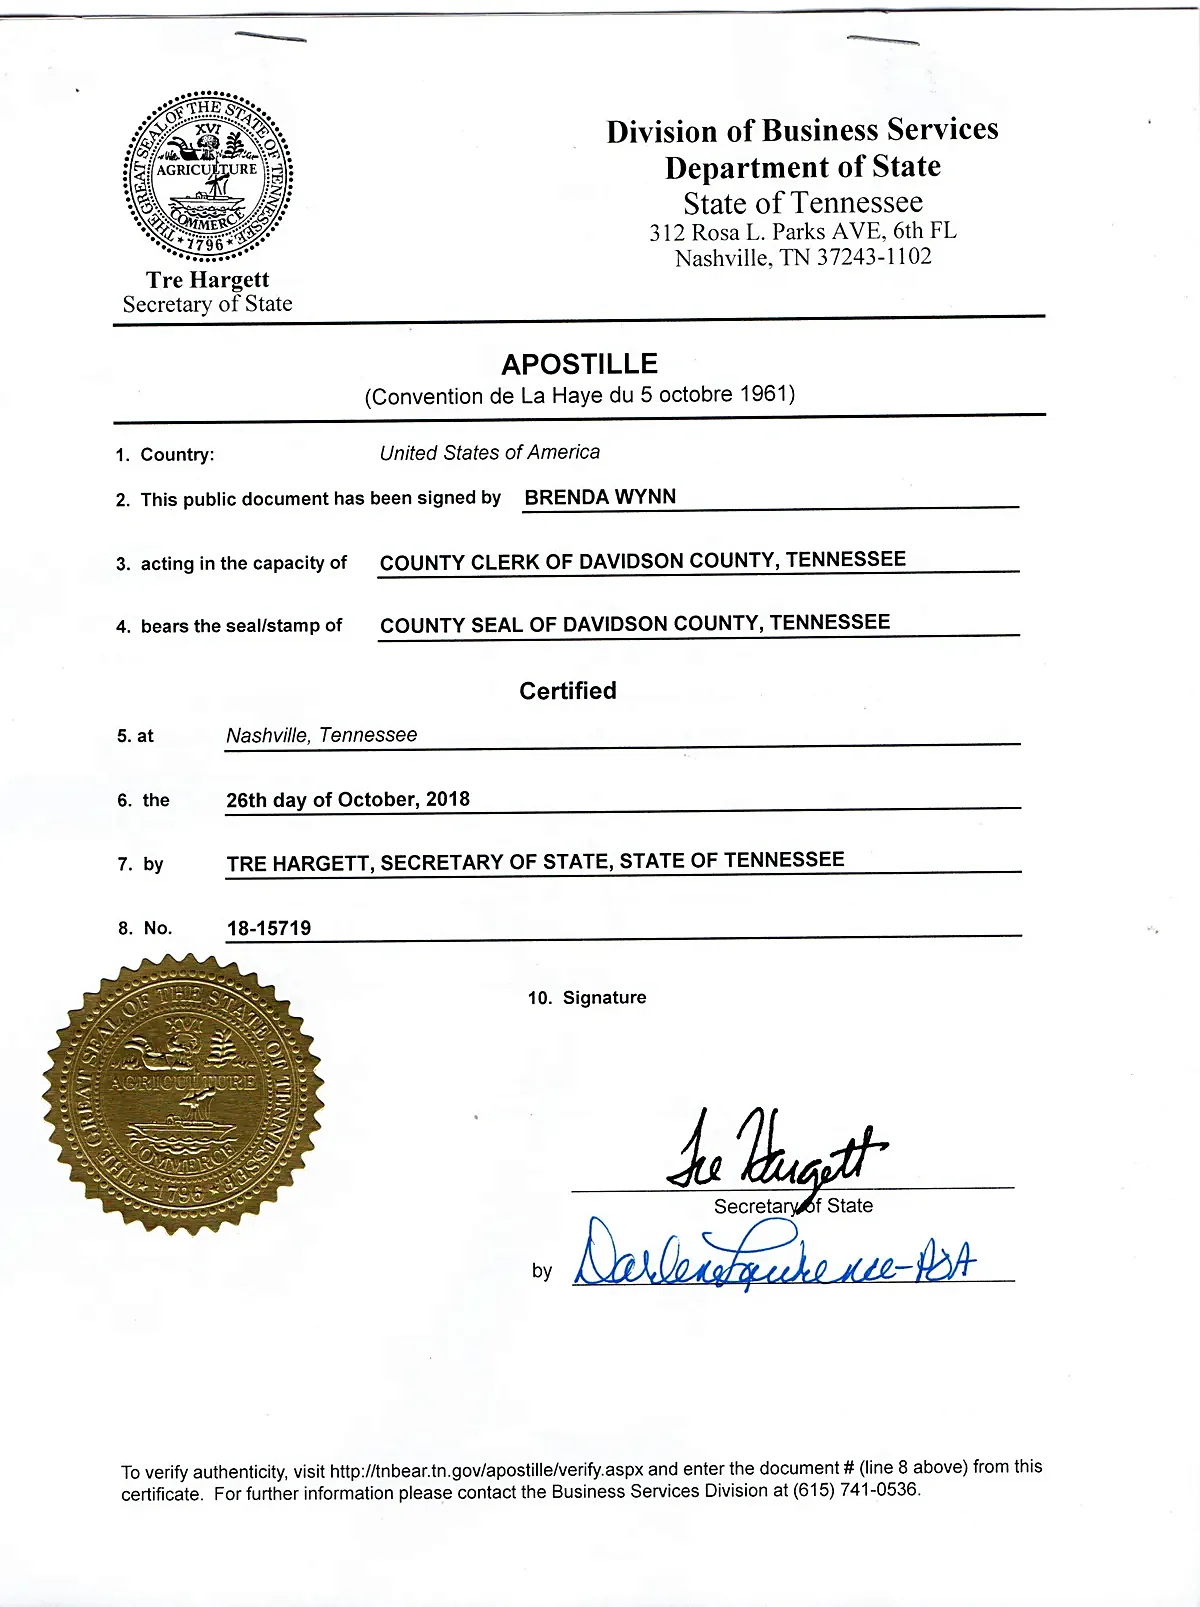
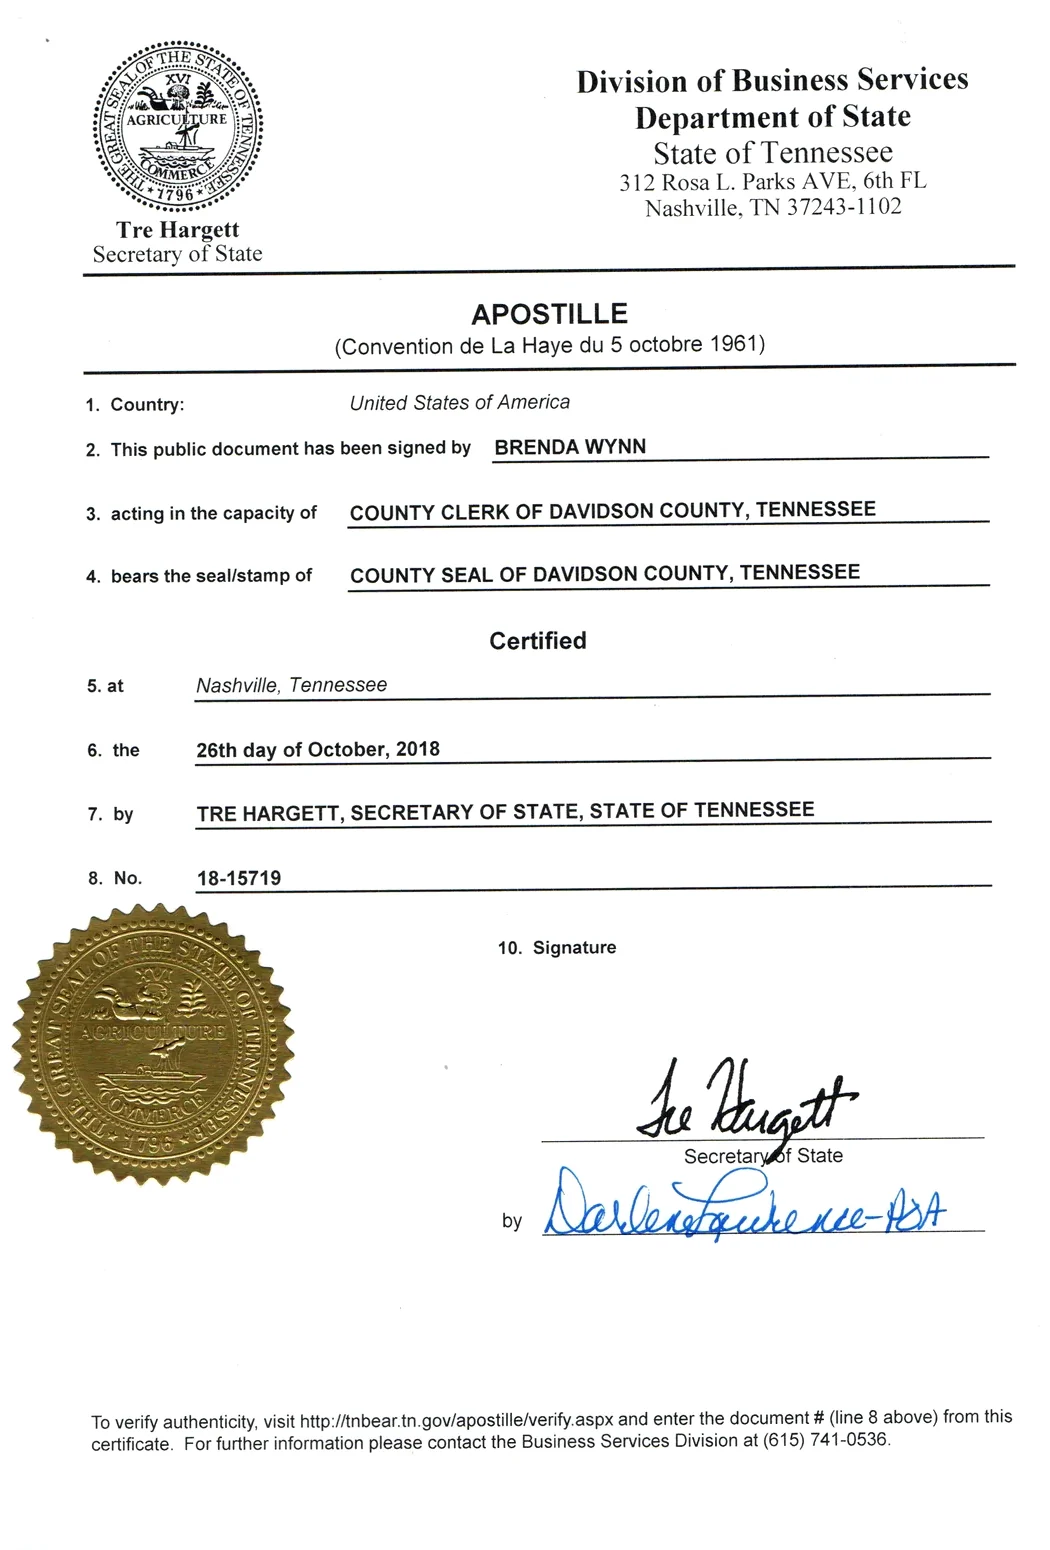
Add files via upload

diff --git a/index.html b/index.html
@@ -76,7 +76,7 @@ h1,h2,h3{margin:0;font-weight:400;text-wrap:balance}
 .btn.solid-ink{background:var(--ink);color:var(--paper);border-color:var(--ink)}
 .btn .n{font-family:var(--f-mono);font-weight:500}
 .portrait{position:relative;align-self:stretch;display:flex;flex-direction:column;justify-content:flex-end}
-.portrait img{width:100%;height:auto;aspect-ratio:1152/1320;object-fit:cover;filter:contrast(1.02)}
+.portrait img{width:100%;height:auto;aspect-ratio:936/1320;object-fit:cover;object-position:center top;background:#fff}
 .portrait figcaption{display:flex;justify-content:space-between;padding-block:12px 18px;font-family:var(--f-mono);font-size:11px;letter-spacing:.12em;color:var(--mute-dark)}
 .chapter-tag{display:flex;justify-content:space-between;align-items:baseline;border-top:1px solid var(--rule-dark);padding-block:18px 20px;font-family:var(--f-display);font-size:18px;letter-spacing:.06em}
 .chapter-tag .label{color:var(--mute-dark)}
@@ -155,8 +155,17 @@ figcaption.cap{margin-top:10px;font-size:13px;line-height:1.55;color:var(--mute)
 .shots figure:nth-child(2){margin-top:56px}
 
 /* CHAPTER V — 학력 */
-.edu{display:grid;grid-template-columns:minmax(0,1.25fr) minmax(0,.75fr);gap:40px;margin-top:56px;align-items:start}
-.edu-side{display:grid;gap:28px}
+.docs{display:grid;grid-template-columns:repeat(12,minmax(0,1fr));gap:48px 32px;margin-top:64px;align-items:end}
+.doc{grid-column:span 6;min-width:0}
+.doc.d1{grid-column:1 / span 7}
+.doc.d2{grid-column:9 / span 4}
+.doc.d3{grid-column:1 / span 5}
+.doc.d4{grid-column:7 / span 6}
+.doc-no{display:flex;justify-content:space-between;align-items:baseline;border-top:1px solid var(--ink);padding-top:10px;margin-bottom:14px}
+.doc-no .n{font-family:var(--f-display);font-size:26px;line-height:1}
+.sheet{background:#fff;border:1px solid var(--rule);padding:clamp(10px,1.6vw,18px)}
+.sheet .zoom img{border:1px solid #e6e5e1}
+.doc .num-big{font-family:var(--f-display);font-size:clamp(34px,4vw,52px);line-height:1;margin-top:14px;font-variant-numeric:tabular-nums}
 .meta{margin-top:12px}
 .meta b{display:block;font-family:var(--f-display);font-weight:400;font-size:22px;line-height:1.2}
 .meta span{font-size:14px;color:var(--mute)}
@@ -224,6 +233,9 @@ dialog button{font:inherit;background:none;border:1px solid var(--ink);color:var
   .card{grid-template-columns:1fr;gap:10px;padding:28px 20px 36px;min-height:0}
   .card:nth-child(n){top:64px}
   .rules{grid-template-columns:1fr}
+  .docs{gap:44px}
+  .doc.d1,.doc.d2,.doc.d3,.doc.d4{grid-column:1 / -1}
+  .doc.d2,.doc.d3,.doc.d4{max-width:520px}
   .verify{grid-template-columns:1fr;gap:10px}
   .chapter{padding-block:72px}
   .dock{display:flex}
@@ -272,7 +284,7 @@ dialog button{font:inherit;background:none;border:1px solid var(--ink);color:var
         </div>
       </div>
       <figure class="portrait">
-        <img src="img/portrait.webp" alt="임희대 코치 인물 사진" width="1152" height="1320">
+        <img src="img/portrait.webp" alt="임희대 코치 인물 사진" width="936" height="1320">
         <figcaption><span>LIM HEE DAE</span><span>PENN STATE · TESOL</span></figcaption>
       </figure>
     </div>
@@ -426,23 +438,28 @@ dialog button{font:inherit;background:none;border:1px solid var(--ink);color:var
           <p>그 뒤 18년 동안 대기업 임원부터 외국계 이직 준비생까지 직장인 3,000명 이상을 1:1로 만났습니다. 학력과 자격은 아래 원본으로 확인하실 수 있습니다.</p>
         </div>
       </div>
-      <div class="edu">
-        <figure class="rise">
-          <button class="zoom" type="button" data-full="img/diploma.webp" data-cap="The Pennsylvania State University 학위증"><img src="img/diploma.webp" alt="펜실베이니아 주립대 학사 학위증" loading="lazy" width="1000" height="845"></button>
-          <div class="meta"><b>The Pennsylvania State University</b><span>Bachelor of Arts · Labor and Industrial Relations · 2008</span></div>
+      <div class="docs">
+        <figure class="doc d1 rise">
+          <div class="doc-no"><span class="n">01</span><span class="label muted">Degree</span></div>
+          <div class="sheet"><button class="zoom" type="button" data-full="img/diploma.webp" data-cap="The Pennsylvania State University 학위증"><img src="img/diploma.webp" alt="펜실베이니아 주립대 학사 학위증, Hee Dae Lim, 2008년 8월" loading="lazy" width="960" height="786"></button></div>
+          <div class="meta"><b>The Pennsylvania State University</b><span>Bachelor of Arts · Labor and Industrial Relations · 2008년 8월</span></div>
         </figure>
-        <div class="edu-side rise">
-          <figure>
-            <button class="zoom" type="button" data-full="img/tesol-cert.webp" data-cap="TESOL 수료증"><img src="img/tesol-cert.webp" alt="TESOL 수료증" loading="lazy" width="688" height="918"></button>
-            <div class="meta"><b>TESOL Certificate</b><span>University of the Nations · 2009</span></div>
-          </figure>
-          <p class="cap" style="font-size:13px;color:var(--mute)">4주 전일제 과정으로 강의 100시간, 과제 40시간, 실습 26시간을 마쳤습니다. <button class="linkbtn" type="button" data-full="img/tesol-letter.webp" data-cap="TESOL 과정 이수 확인서">이수 확인서 보기</button></p>
-        </div>
-      </div>
-      <div class="verify rise">
-        <span class="label muted">Apostille</span>
-        <p>미국 테네시주 국무부가 발행한 아포스티유 확인서입니다. 문서번호로 테네시주 공식 사이트에서 누구나 진위를 조회할 수 있습니다. <span class="no" style="display:block;margin-top:10px">No. 18-15719</span></p>
-        <button class="linkbtn" type="button" data-full="img/apostille.webp" data-cap="아포스티유 확인서">원본 보기</button>
+        <figure class="doc d2 rise">
+          <div class="doc-no"><span class="n">02</span><span class="label muted">Certificate</span></div>
+          <div class="sheet"><button class="zoom" type="button" data-full="img/tesol-cert.webp" data-cap="TESOL 수료증"><img src="img/tesol-cert.webp" alt="University of the Nations TESOL 수료증, Heedae Lim, 2009년 11월 13일" loading="lazy" width="900" height="1233"></button></div>
+          <div class="meta"><b>TESOL Certificate</b><span>University of the Nations · 미국 펜실베이니아주 · 2009년</span></div>
+        </figure>
+        <figure class="doc d3 rise">
+          <div class="doc-no"><span class="n">03</span><span class="label muted">Course Record</span></div>
+          <div class="sheet"><button class="zoom" type="button" data-full="img/tesol-letter.webp" data-cap="TESOL 과정 이수 확인서"><img src="img/tesol-letter.webp" alt="TESOL 과정 이수 확인서" loading="lazy" width="1100" height="1522"></button></div>
+          <div class="meta"><b>TESOL 과정 이수 확인서</b><span>4주 전일제 과정으로 강의 100시간, 과제 40시간, 실습 26시간을 마쳤습니다.</span></div>
+        </figure>
+        <figure class="doc d4 rise">
+          <div class="doc-no"><span class="n">04</span><span class="label muted">Apostille</span></div>
+          <div class="sheet"><button class="zoom" type="button" data-full="img/apostille.webp" data-cap="아포스티유 확인서"><img src="img/apostille.webp" alt="미국 테네시주 국무부 아포스티유 확인서, 문서번호 18-15719" loading="lazy" width="1050" height="1550"></button></div>
+          <div class="meta"><b>아포스티유 확인서</b><span>미국 테네시주 국무부가 발행했습니다. 문서번호로 테네시주 공식 사이트에서 누구나 진위를 조회할 수 있습니다.</span></div>
+          <p class="num-big">No. 18-15719</p>
+        </figure>
       </div>
     </div>
   </section>
@@ -450,8 +467,8 @@ dialog button{font:inherit;background:none;border:1px solid var(--ink);color:var
   <!-- 수업료 -->
   <section class="chapter" id="price">
     <div class="wrap">
-      <div class="ch-head"><span class="no">TUITION</span><span class="label muted">모두 공개합니다</span></div>
-      <p class="kr-title rise">수업료는 숨김없이 공개합니다.</p>
+      <div class="ch-head"><span class="no">TUITION</span><span class="label muted">Tuition &amp; Policy</span></div>
+      <p class="kr-title rise">수업 횟수와 형태에 따라 수업료를 안내합니다.</p>
       <div class="price-wrap rise">
         <table class="price">
           <thead><tr><th>온라인 · 50분</th><th>수업료</th><th>1회당</th></tr></thead>
